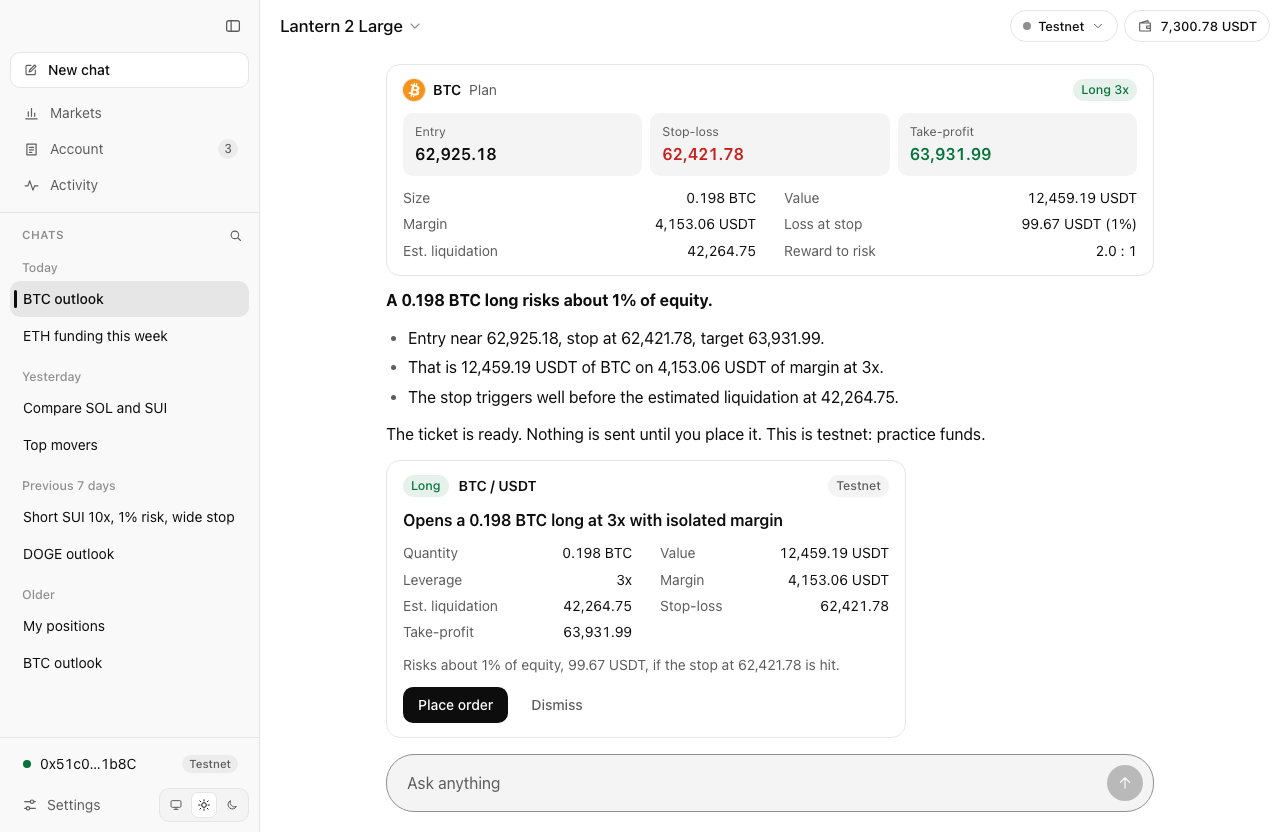
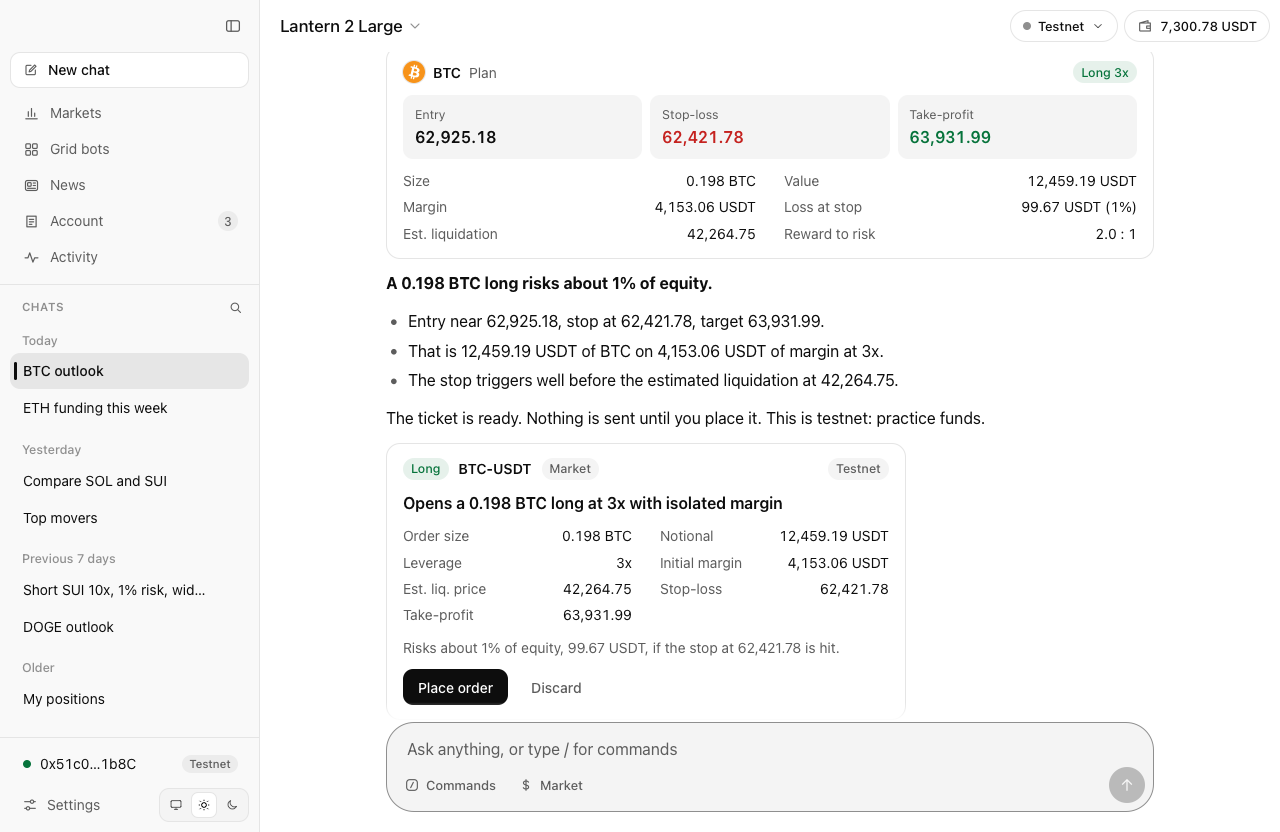
📝 docs: retake the README pictures from 0.10.0
Every picture of the app window is taken again against the built-in
mock on testnet, at the same size: the sidebar with Grid bots, the
message box with Commands and Market, and the redesigned Settings.
Two more show the commands and the Grid bots page, and each alt text
says what its picture shows now.

diff --git a/README.md b/README.md
@@ -4,7 +4,7 @@ Website: [octoneo.xyz](https://octoneo.xyz). Download the [latest release](https
 
 OctoNeo is a desktop AI trading assistant for perpetual futures on a decentralised exchange. You chat with it the way you chat with any AI assistant. It reads live market data, sizes positions from the risk you accept, and drafts order tickets. You trade from your own web3 wallet and confirm every order. It runs on Windows, macOS and Linux.
 
-![The assistant answering "BTC outlook", with the price, the 4h reading and the order book it read shown as cards above its answer](docs/images/assistant-dark.png)
+![The assistant answering "BTC outlook", with the price, the 4h reading and the order book it read shown as cards above its answer, and the message box below with Commands and Market](docs/images/assistant-dark.png)
 
 - **Just ask, or use a command.** "BTC outlook", "Top movers", "Long ETH, 1% risk". Or type `/` for commands that trade, research and analyse: pick the market, the risk and the leverage, and the command writes the message. The assistant plans its own research and shows what it read as cards under the answer: prices, a technical reading, the order book, a position plan.
 - **Bring your own model.** OpenRouter, Cloudflare AI Gateway, or a model on your own computer with Ollama or LM Studio.
@@ -42,7 +42,7 @@ Every message is answered by a language model, so the app needs one. Open **Sett
 | Ollama | On your computer | [Ollama](https://ollama.com) running, with a model that supports tools, for example `ollama pull qwen3:8b`. |
 | LM Studio | On your computer | [LM Studio](https://lmstudio.ai) with its local server started and a model trained for tool use. The app loads the model for you. |
 
-![Connecting a model in Settings](docs/images/models-light.png)
+![Settings, Models: the model in use, OpenRouter and Cloudflare AI Gateway in the cloud, and Ollama and LM Studio on your computer](docs/images/models-light.png)
 
 The app checks a model before it keeps it: the key or token must be accepted, and the model must be able to call tools, because that is how the assistant reads the market and drafts tickets. A model on your computer keeps your conversations on your computer. It works in a smaller context than a cloud model, so pick the largest one your machine runs comfortably.
 
@@ -55,7 +55,7 @@ OctoNeo trades through an **API wallet**: a separate key that your own wallet ap
 | Approve in a browser wallet | The app creates a key on your computer and opens a page it serves locally. Your wallet (MetaMask, Rabby and others) signs one approval for that key, for 7 to 180 days. | Most people |
 | Paste an API wallet key | You create an API wallet on the exchange's own API wallet page, which the app opens for you, and paste its key together with your wallet address. | Hardware wallets, or keys you manage yourself |
 
-![Connecting a wallet by approving a trade-only key in the browser](docs/images/wallet-light.png)
+![Settings, Wallets: the testnet wallet waiting for your browser wallet to approve a trade-only key, at the page the app opened](docs/images/wallet-light.png)
 
 Things to know:
 
@@ -83,7 +83,7 @@ Funds move between your own wallet and your trading account. **Deposit** and **W
 
 ## Market data
 
-![The screener of every market the exchange lists](docs/images/markets-dark.png)
+![The screener of every market the exchange lists, under the day's top gainer, top loser, highest funding and most traded](docs/images/markets-dark.png)
 
 | Where | What it shows |
 | --- | --- |
@@ -110,7 +110,7 @@ A market's page opens from **Markets**, from a market named in an answer, or fro
 | Call read-only tools of a tool server you attached | Answer without a model: there are no canned replies |
 | Work out a grid bot as a dry run, draft it for you to start, and read how your bots are doing | Start, stop or change a grid bot |
 
-![Headlines the assistant read, with who reported each one and how long ago](docs/images/news-light.png)
+![Headlines the assistant read about BTC and ETH, with who reported each one and how long ago, and its answer](docs/images/news-light.png)
 
 Conversations are kept in the sidebar, where you can filter them by title. Open one to read it again with what the assistant read at the time, or delete it.
 
@@ -127,6 +127,8 @@ Type `/` in the message box, or press **Commands** under it, for what the assist
 | Analysis | `/technicals`, `/levels`, `/book`, `/compare` | The market, the timeframe, a second market to compare |
 | Account | `/portfolio`, `/journal`, `/bots` | Nothing: they read your account, your journal and your grid bots |
 
+![The message box with its commands open, as / opens them: Open a long, Open a short, Plan a trade, Close a position, Reduce a position and Grid bot under Trade, then Market outlook under Research, each with what it does](docs/images/commands-dark.png)
+
 - **Name a market with `$`.** Type `$` and the first letters of a market, or press **Market**, to pick it from a list with its price and its move today. In a command, it sets the command's market.
 - **What a command needs.** One that reads your account needs a connected wallet, the news needs web search, and `/journal` needs a trade in your journal. The box says what is missing, with a button to fix it.
 - **Next steps.** Under an answer, suggestions pick up where it left off: trade the market it read, or read what it has not yet. A trade suggestion fills the box for you to look over; it is never sent by itself.
@@ -134,7 +136,7 @@ Type `/` in the message box, or press **Commands** under it, for what the assist
 
 ## How orders work
 
-![A ticket the assistant drafted, waiting to be placed](docs/images/ticket-light.png)
+![The position plan the assistant worked out, its answer, and the ticket it drafted, waiting for Place order](docs/images/ticket-light.png)
 
 - **Tickets.** Every order starts as a ticket: what it does to your position, its value, the margin it needs and an estimated liquidation price. It is checked against your live account before you see it, and sent only when you confirm. A mainnet ticket also asks you to tick an acknowledgement.
 - **Two ways to draft one.** Ask the assistant, or use **Trade** on a market's page, which needs no model.
@@ -161,6 +163,8 @@ A grid bot splits a price range into levels and keeps an order waiting at each o
 | Margin and leverage | How much of your balance the bot uses, at a leverage up to your limit |
 | Start price | Optional: the bot waits until the price reaches it, then places its orders |
 | Stop below, stop above | Optional: prices outside the range at which the bot stops, and can close its position |
+
+![A new grid bot on BTC: Neutral, Long or Short, the price range with suggested ranges, and beside it the price levels, buys below the price and sells above it](docs/images/grid-light.png)
 
 - **Look first, then start.** **Grid bots** works the bot out as a dry run before anything is sent: each order's size and value, the profit per completed trade, the estimated liquidation price, and anything worth knowing first. On mainnet you tick an acknowledgement before it starts.
 - **From the chat.** Ask for a grid, or use `/grid`. The assistant reads the market's levels, works the bot out as a dry run and drafts it in the conversation, where you start it or discard it. Starting checks the draft against the live price again. `/bots` asks how your bots are doing.
